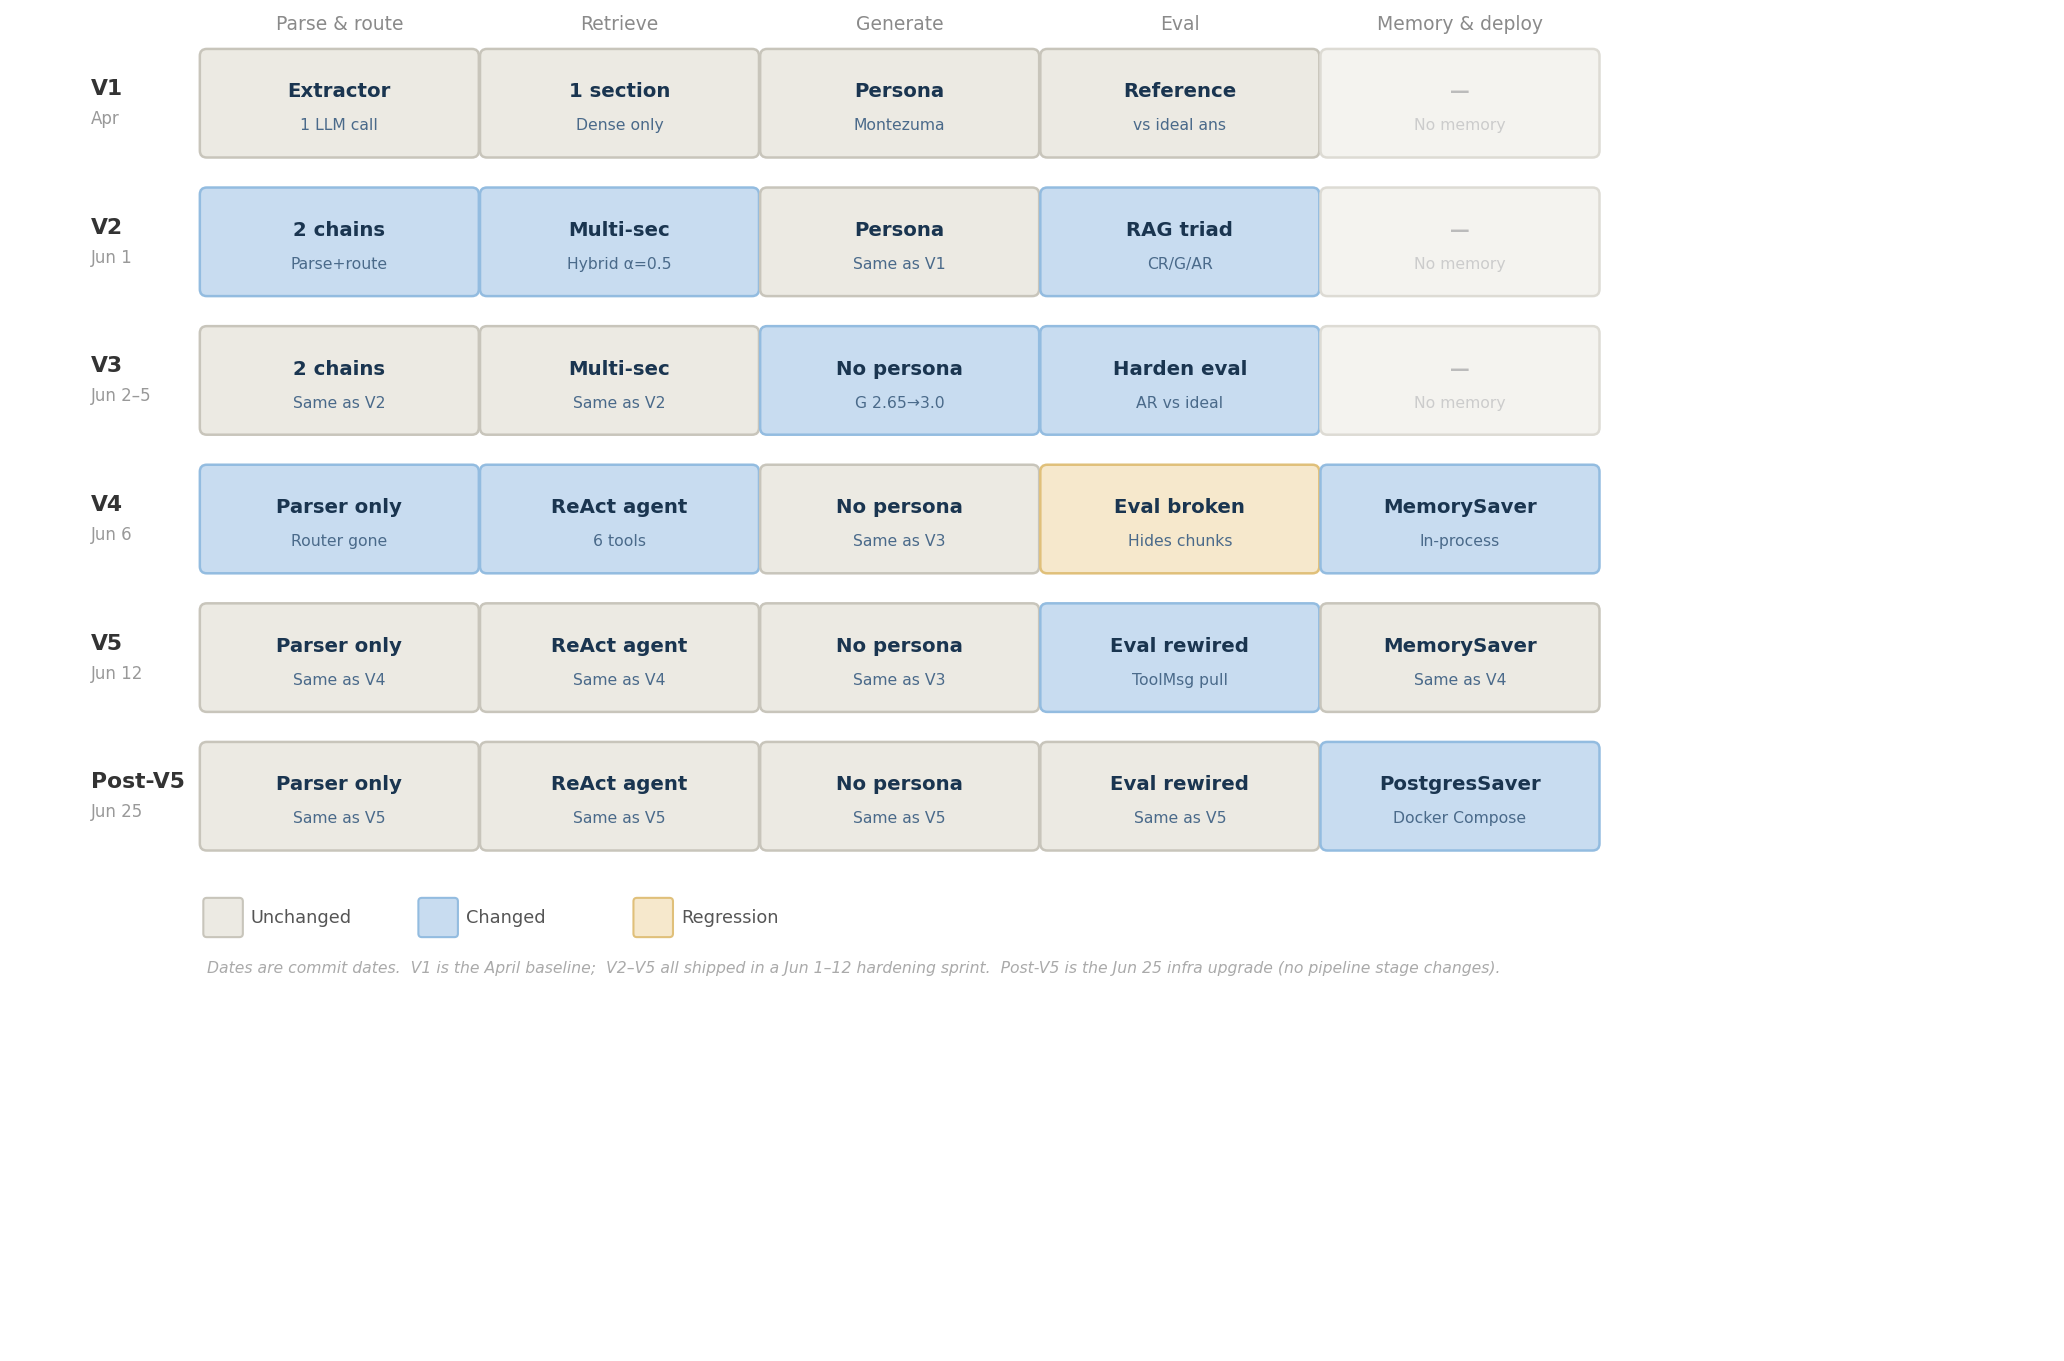
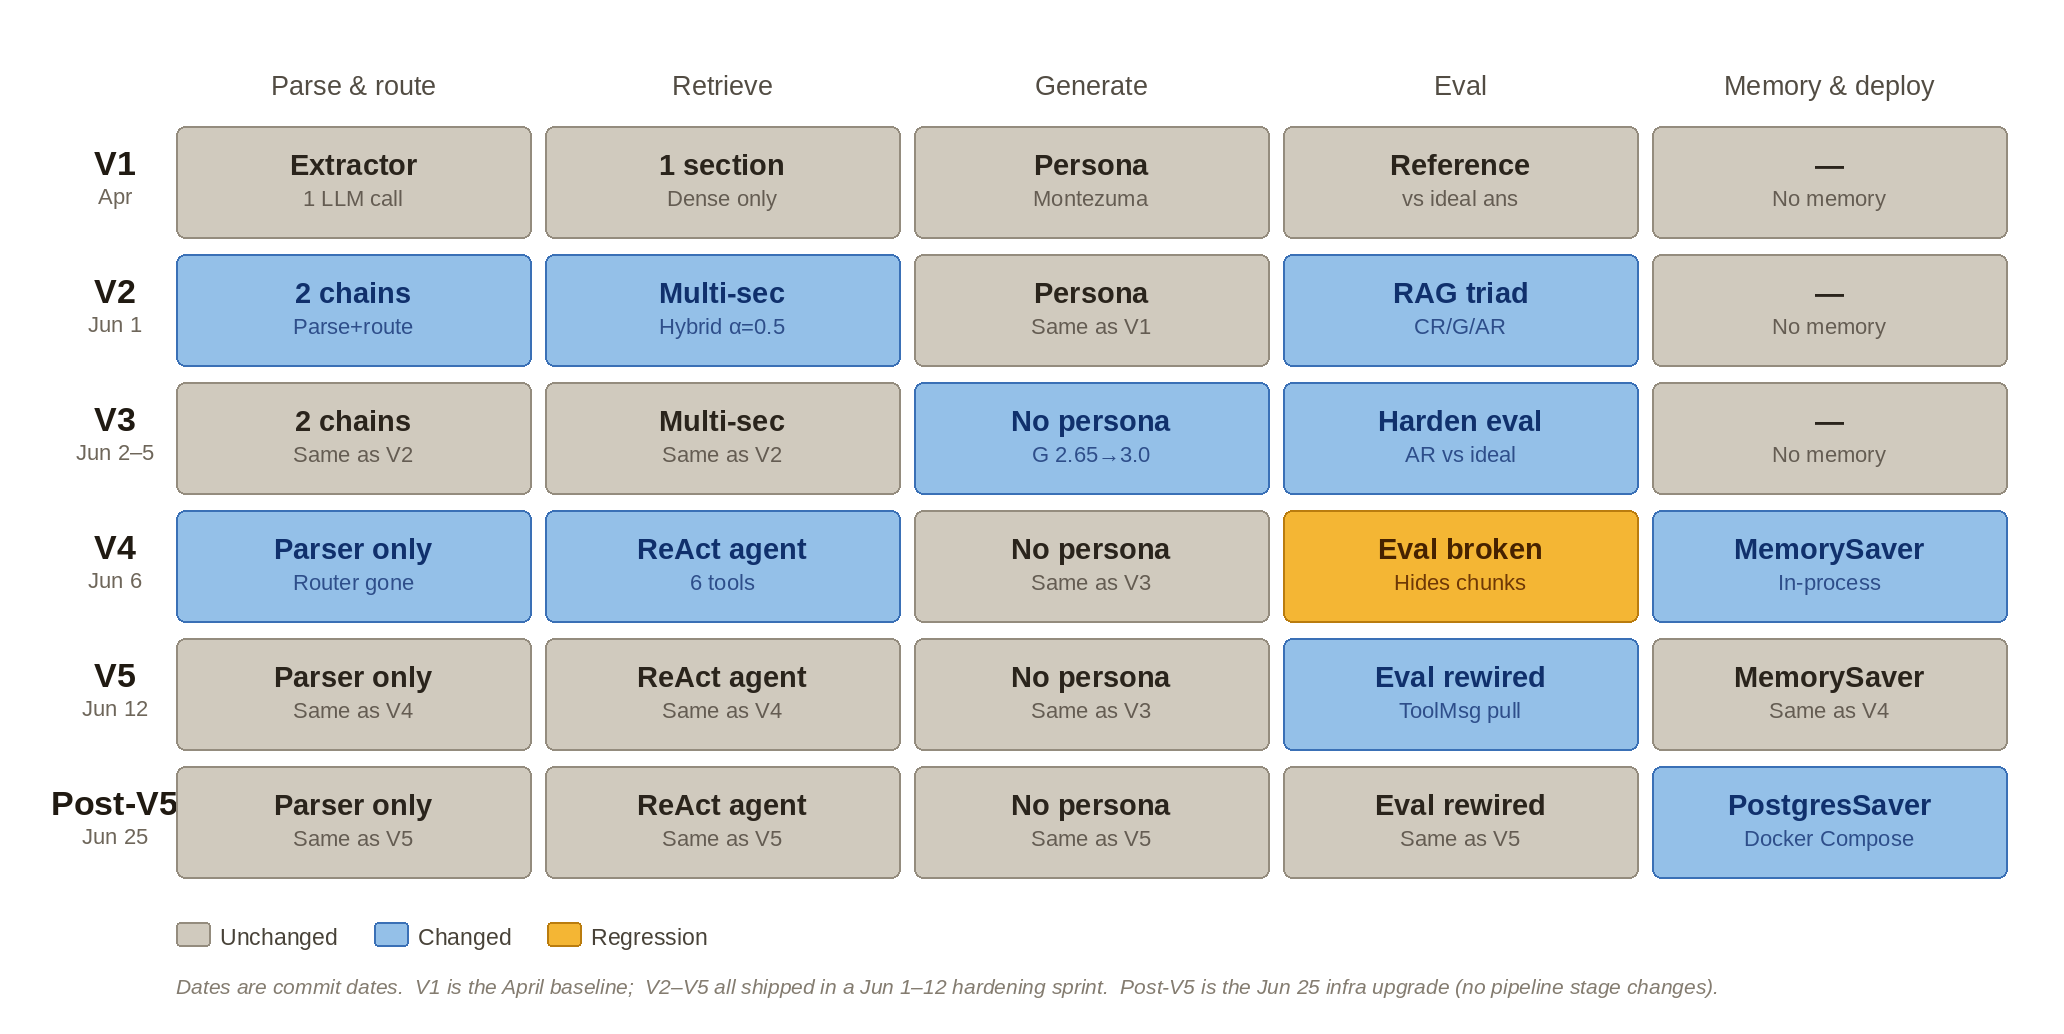
fix type annotation, postgres fallback, and diagram clarity

diff --git a/src/agent/construct_agents.py b/src/agent/construct_agents.py
@@ -16,9 +16,12 @@ from src.agent.tools import (
 
 db_uri = os.getenv("DATABASE_URL")
 if db_uri:
-    conn = psycopg.connect(db_uri, autocommit=True, row_factory=dict_row)  # pyright: ignore[reportArgumentType]
-    checkpointer = PostgresSaver(conn)  # pyright: ignore[reportArgumentType]
-    checkpointer.setup()
+    try:
+        conn = psycopg.connect(db_uri, autocommit=True, row_factory=dict_row)  # pyright: ignore[reportArgumentType]
+        checkpointer = PostgresSaver(conn)  # pyright: ignore[reportArgumentType]
+        checkpointer.setup()
+    except Exception:
+        checkpointer = MemorySaver()
 else:
     checkpointer = MemorySaver()
 

diff --git a/src/retrieval/version_extractor.py b/src/retrieval/version_extractor.py
@@ -6,7 +6,7 @@ from src.config import Version, llm
 from src.schema import ParsedQuery
 
 
-def query_parser(query: str, history: list) -> ParsedQuery:
+def query_parser(query: str, history: list[dict[str, str]]) -> ParsedQuery:
     """
     1) Extract version from query by passing Version to LLM
     2) Clean query by passing to LLM